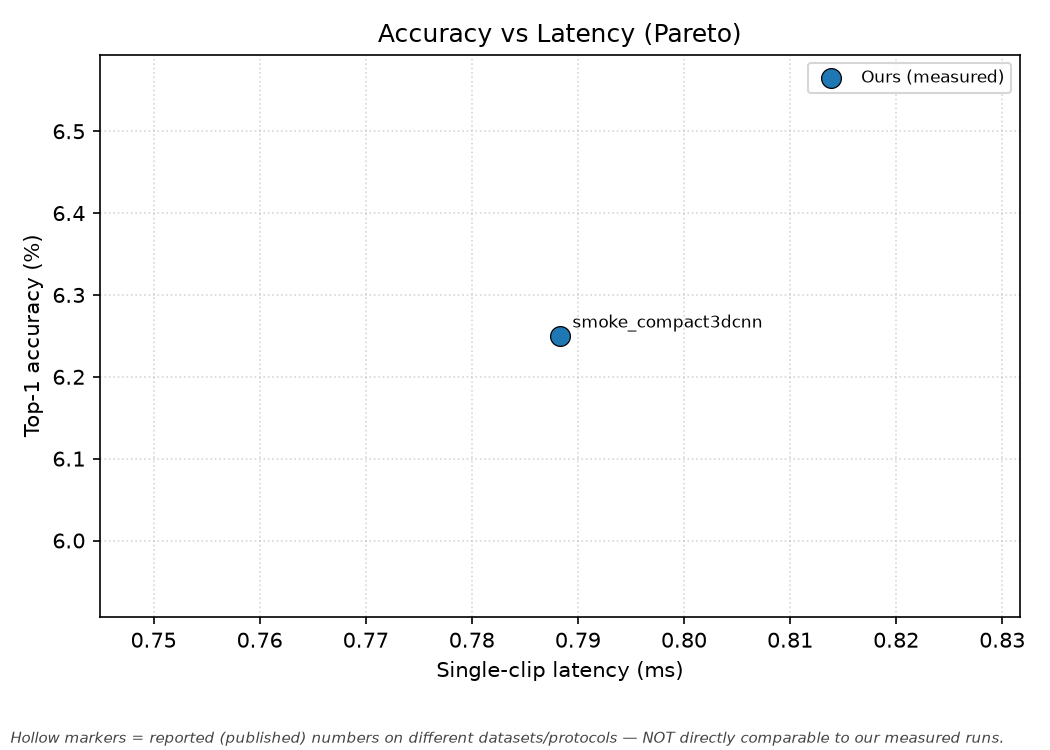
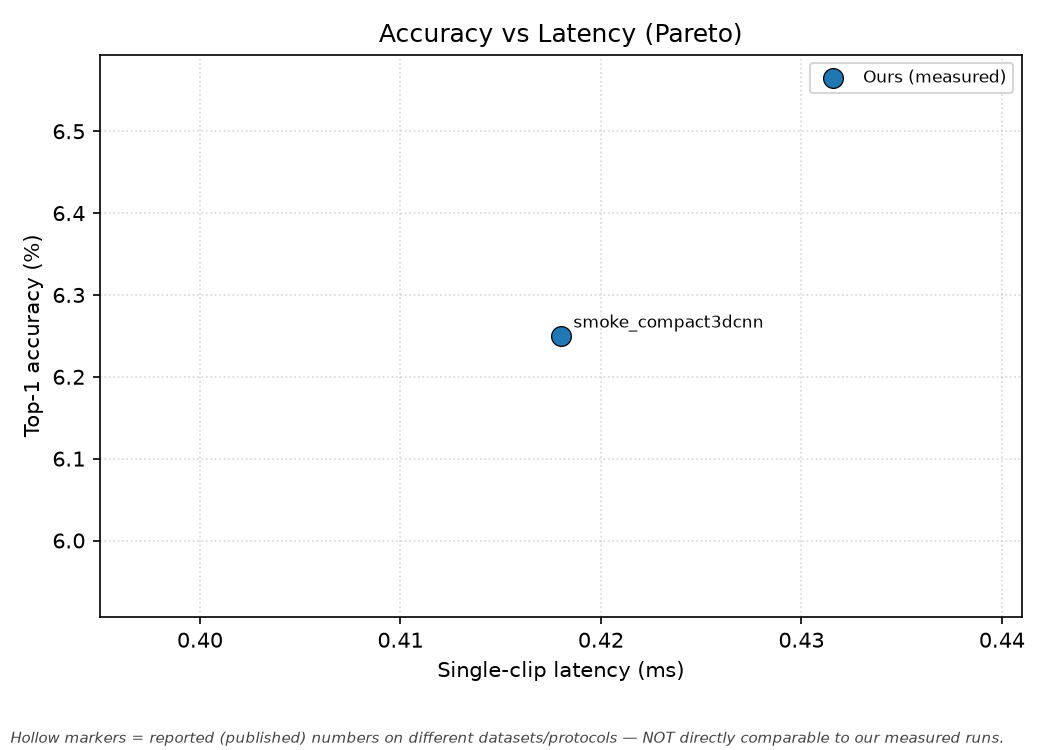
chore: experiment-runner, compress/multimodal entrypoints, env lock, dict-aware eval
- scripts/run_experiments.sh: documents the full §6 experiment matrix (PEFT
  sweep, distill ablation, compression, clip/res sensitivity, modality ablation)
- scripts/compress_student.py: FP32/FP16/INT8-PTQ/INT8-QAT + pruning matrix with
  honest report_compression rows (M6 entrypoint)
- scripts/train_multimodal.py: NVGesture dict-batch training + evaluate_multimodal
  (M7 entrypoint) with per-modality ablation via --set
- src/eval/metrics.evaluate now handles dict (multimodal) batches so the shared
  engine's per-epoch eval works for the fusion model
- requirements.lock.txt: exact measured versions (torch 2.6.0+cu124, CUDA 12.4)
- README: run-experiments, webcam-demo, env-pinning, results-teaser sections

Verified on RTX 4060: all 3 fusion modes train+eval; 22 tests pass; make smoke
and make repro-main both succeed.

diff --git a/scripts/compress_student.py b/scripts/compress_student.py
@@ -1,0 +1,131 @@
+"""Compress a trained student and emit the FP32/FP16/INT8/pruned comparison (M6).
+
+Loads a student checkpoint, then for each requested mode produces the compressed
+model, runs `report_compression` (honest size + accuracy delta), and writes one
+results row per (mode, prune_ratio). QAT additionally fine-tunes the fake-quant
+model for a few epochs before converting. Accuracy drops are reported, never
+hidden (BRIEF §6.3, §11).
+
+Usage:
+    python scripts/compress_student.py --config configs/distill_student.yaml \
+        --ckpt checkpoints/distill/jester_student_logit_kd.pt \
+        --modes fp32 fp16 int8_ptq int8_qat --prune-ratios 0.0 0.3 0.5
+"""
+
+from __future__ import annotations
+
+import argparse
+import copy
+import sys
+from pathlib import Path
+
+sys.path.insert(0, str(Path(__file__).resolve().parents[1]))
+
+import torch
+
+import src.data  # noqa: F401
+import src.models  # noqa: F401
+from src.bench.efficiency_bench import measure_disk_size
+from src.compress import (
+    convert_qat, prepare_qat, prune_report, quantize_fp16,
+    quantize_int8_ptq, remove_pruning_reparam, report_compression,
+    structured_channel_prune,
+)
+from src.data.loaders import build_dataloaders
+from src.train.engine import train_model
+from src.utils import (
+    ResultsWriter, build, get_logger, load_config, seed_everything,
+)
+from src.utils.checkpoint import load_checkpoint
+
+log = get_logger("scripts.compress_student")
+
+
+def parse_args():
+    p = argparse.ArgumentParser(description=__doc__)
+    p.add_argument("--config", required=True)
+    p.add_argument("--ckpt", required=True)
+    p.add_argument("--modes", nargs="+",
+                   default=["fp32", "fp16", "int8_ptq", "int8_qat"])
+    p.add_argument("--prune-ratios", nargs="*", type=float, default=[0.0])
+    p.add_argument("--qat-epochs", type=int, default=2)
+    p.add_argument("--set", nargs="*", default=[], dest="overrides")
+    return p.parse_args()
+
+
+def _load_student(cfg, ckpt, device):
+    model = build("model", cfg["model"].get("name", "streaming_student"),
+                  num_classes=cfg["data"]["num_classes"], **cfg["model"].get("kwargs", {}))
+    payload = load_checkpoint(ckpt, model, map_location="cpu")
+    model.to(device).eval()
+    log.info("Loaded student from %s (epoch %s)", ckpt, payload.get("epoch"))
+    return model
+
+
+def main():
+    args = parse_args()
+    cfg = load_config(args.config, overrides=args.overrides)
+    seed = seed_everything(cfg.get("seed", 42), cfg.get("deterministic", True))
+    device = torch.device(cfg.get("device", "cuda") if torch.cuda.is_available() else "cpu")
+
+    loaders = build_dataloaders(cfg)
+    eval_loader = loaders.get("test") or loaders.get("val")
+    calib_loader = loaders.get("train") or eval_loader
+    if eval_loader is None:
+        log.error("No eval loader; cannot report accuracy. Prepare data first.")
+        return
+
+    base = _load_student(cfg, args.ckpt, device)
+    writer = ResultsWriter(root=cfg["output"]["root"], seed=seed)
+    group = "compress"
+
+    for ratio in args.prune_ratios:
+        # Apply structured pruning first (ratio=0 => no-op), then quantize.
+        pruned = copy.deepcopy(base)
+        if ratio > 0:
+            structured_channel_prune(pruned, ratio)
+            remove_pruning_reparam(pruned)
+        prune_info = prune_report(base, pruned) if ratio > 0 else {"conv_sparsity_after": 0.0}
+
+        for mode in args.modes:
+            tag = f"{mode}_prune{ratio}"
+            log.info("=== compressing: %s ===", tag)
+            if mode == "fp32":
+                comp = copy.deepcopy(pruned)
+                setattr(comp, "_quantization_note", "fp32 baseline (no quantization).")
+            elif mode == "fp16":
+                comp = quantize_fp16(pruned)
+            elif mode == "int8_ptq":
+                comp = quantize_int8_ptq(pruned, calib_loader, device)
+            elif mode == "int8_qat":
+                qat_model = prepare_qat(pruned).to(device)
+                # Short QAT fine-tune with the standard supervised engine.
+                qcfg = copy.deepcopy(cfg)
+                qcfg["train"]["epochs"] = args.qat_epochs
+                train_model(qat_model, loaders, qcfg, device=device)
+                comp = convert_qat(qat_model)
+            else:
+                log.warning("Unknown mode %s; skipping.", mode)
+                continue
+
+            rep = report_compression(pruned, comp, eval_loader, device, tag)
+            result = {
+                "compress": {"mode": mode, "prune_ratio": ratio, **rep, **prune_info},
+                "bench": {  # minimal bench block so viz can pick up size/accuracy
+                    "params": {"total": sum(p.numel() for p in base.parameters()),
+                               "trainable": 0, "frozen": 0, "trainable_pct": 0.0},
+                    "disk_size_mb": rep["size_mb_after"],
+                    "flops": {"macs_g": None, "flops_g": None, "flops_backend": "n/a"},
+                    "accuracy": {"top1": rep.get("top1_after"), "top5": None},
+                    "single_clip_fps": None, "single_clip_latency_ms": None,
+                    "peak_infer_vram_mb": None,
+                },
+                "config_path": args.config,
+            }
+            writer.write(result, group=group, run_name=tag, seed=seed)
+
+    log.info("DONE compression matrix -> experiments/%s/", group)
+
+
+if __name__ == "__main__":
+    main()

diff --git a/scripts/train_multimodal.py b/scripts/train_multimodal.py
@@ -1,0 +1,118 @@
+"""Train the multimodal fusion model on NVGesture (M7) with modality ablation.
+
+The multimodal loader yields ``(modality_dict, label)`` batches, so this uses the
+dict-aware ``multimodal_loss_fn`` and ``evaluate_multimodal``. The modality set is
+controlled by ``data.modalities`` + ``model.kwargs.modalities`` (RGB / RGB+D /
+RGB+D+IR), giving the §6.5 ablation.
+
+Usage:
+    python scripts/train_multimodal.py --config configs/multimodal_nvgesture.yaml \
+        --set data.modalities='[rgb,depth]' model.kwargs.modalities='[rgb,depth]' \
+              output.run_name=nvgesture_rgbd
+"""
+
+from __future__ import annotations
+
+import argparse
+import sys
+from pathlib import Path
+
+sys.path.insert(0, str(Path(__file__).resolve().parents[1]))
+
+import torch
+
+import src.data  # noqa: F401
+import src.models  # noqa: F401
+from src.data.loaders import build_dataloaders
+from src.eval.metrics import evaluate  # noqa: F401 (kept for parity/imports)
+from src.train.engine import _resolve_amp, train_model
+from src.train.multimodal import evaluate_multimodal, multimodal_loss_fn
+from src.utils import (
+    ResultsWriter, build, get_logger, load_config, save_config,
+    seed_everything, setup_file_logging,
+)
+from src.utils.checkpoint import save_checkpoint
+from src.utils.env import count_parameters
+
+log = get_logger("scripts.train_multimodal")
+
+
+def parse_args():
+    p = argparse.ArgumentParser(description=__doc__)
+    p.add_argument("--config", required=True)
+    p.add_argument("--set", nargs="*", default=[], dest="overrides")
+    return p.parse_args()
+
+
+def main():
+    args = parse_args()
+    cfg = load_config(args.config, overrides=args.overrides)
+    seed = seed_everything(cfg.get("seed", 42), cfg.get("deterministic", True))
+
+    run_name = cfg["output"]["run_name"]
+    run_dir = Path(cfg["output"]["root"]) / cfg["output"]["group"] / run_name
+    run_dir.mkdir(parents=True, exist_ok=True)
+    setup_file_logging(run_dir)
+    save_config(cfg, run_dir / "config.resolved.yaml")
+
+    device = torch.device(cfg.get("device", "cuda") if torch.cuda.is_available() else "cpu")
+    loaders = build_dataloaders(cfg)
+
+    model = build("model", cfg["model"].get("name", "multimodal_fusion"),
+                  num_classes=cfg["data"]["num_classes"], **cfg["model"].get("kwargs", {}))
+    model.to(device)
+    params = count_parameters(model)
+    log.info("MultiModalFusion modalities=%s params=%d",
+             cfg["model"]["kwargs"].get("modalities"), params["total"])
+
+    # Dict-aware training. Per-epoch eval uses evaluate_multimodal via callback.
+    amp_enabled, amp_dtype = _resolve_amp(cfg, device)
+    eval_loader = loaders.get("test") or loaders.get("val")
+
+    def on_epoch_end(epoch, summary):
+        if eval_loader is not None:
+            m = evaluate_multimodal(model, eval_loader, device,
+                                    amp_enabled=amp_enabled, amp_dtype=amp_dtype)
+            log.info("epoch %d multimodal val top1=%.3f top5=%.3f",
+                     epoch, m["top1"], m["top5"])
+            summary["val_top1"] = m["top1"]
+            summary["val_top5"] = m["top5"]
+
+    summary = train_model(model, loaders, cfg, device=device,
+                          loss_fn=multimodal_loss_fn(cfg), on_epoch_end=on_epoch_end)
+
+    ckpt_dir = Path(cfg["output"].get("checkpoint_dir", "checkpoints")) / cfg["output"]["group"]
+    save_checkpoint(ckpt_dir / f"{run_name}.pt", model, epoch=cfg["train"]["epochs"],
+                    best_metric=summary.get("best_val_acc"), config=cfg, seed=seed)
+
+    # Final measured accuracy (dict-aware) + params/disk. FLOPs/latency for the
+    # dict input are model-specific; we record the accuracy + size row here and
+    # note that per-modality FLOPs can be measured with efficiency_bench on a
+    # single-modality tensor if needed.
+    final = evaluate_multimodal(model, eval_loader, device,
+                                amp_enabled=amp_enabled, amp_dtype=amp_dtype,
+                                return_confusion=True) if eval_loader else {"top1": None, "top5": None}
+    from src.bench.efficiency_bench import measure_disk_size
+    result = {
+        "train": summary,
+        "modalities": cfg["model"]["kwargs"].get("modalities"),
+        "fusion": cfg["model"]["kwargs"].get("fusion"),
+        "bench": {
+            "params": {"total": params["total"], "trainable": params["trainable"],
+                       "frozen": params["frozen"],
+                       "trainable_pct": round(100.0 * params["trainable"] / max(params["total"], 1), 3)},
+            "disk_size_mb": measure_disk_size(model),
+            "flops": {"macs_g": None, "flops_g": None, "flops_backend": "n/a (multimodal dict)"},
+            "accuracy": {"top1": final.get("top1"), "top5": final.get("top5")},
+            "single_clip_fps": None, "single_clip_latency_ms": None, "peak_infer_vram_mb": None,
+        },
+        "per_class_acc": final.get("per_class_acc"),
+        "config_path": args.config,
+    }
+    ResultsWriter(root=cfg["output"]["root"], seed=seed).write(
+        result, group=cfg["output"]["group"], run_name=run_name, seed=seed)
+    log.info("DONE multimodal run: %s (top1=%s)", run_name, final.get("top1"))
+
+
+if __name__ == "__main__":
+    main()

diff --git a/paper/tables.tex b/paper/tables.tex
@@ -4,7 +4,7 @@
 \hline
 Method & Source & Dataset & Params(M) & FLOPs(G) & Top-1(\%) & FPS & Latency(ms) & PeakVRAM(MB) & Disk(MB) \\
 \hline
-smoke\_compact3dcnn & ours & TODO & 0.00 & 0.02 & 6.25 & 1268.5 & 0.79 & 67.5 & 0.021 \\
+smoke\_compact3dcnn & ours & TODO & 0.00 & 0.02 & 6.25 & 2392.3 & 0.42 & 67.6 & 0.021 \\
 MoViNet-A0 & reported (Kondratyuk et al., CVPR 2021) & Kinetics-600 & 3.10 & 2.71 & 71.50 & TODO & TODO & TODO & TODO \\
 MoViNet-A1 & reported (Kondratyuk et al., CVPR 2021) & Kinetics-600 & 4.60 & 6.02 & 76.00 & TODO & TODO & TODO & TODO \\
 ConvMixFormer & reported (Garg et al., WACV 2025) & NVGesture (RGB) & 13.57 & TODO & 76.04 & TODO & TODO & TODO & TODO \\

diff --git a/src/eval/metrics.py b/src/eval/metrics.py
@@ -41,7 +41,12 @@ def evaluate(
 
     for batch in loader:
         x, y = batch
-        x = x.to(device, non_blocking=True)
+        # Support both single-tensor and multimodal dict batches so the same
+        # evaluate works for the fusion model (x = {modality: tensor}).
+        if isinstance(x, dict):
+            x = {k: v.to(device, non_blocking=True) for k, v in x.items()}
+        else:
+            x = x.to(device, non_blocking=True)
         y = y.to(device, non_blocking=True)
         ctx = torch.autocast(device_type=device.type, dtype=amp_dtype, enabled=amp_enabled)
         with ctx:

diff --git a/README.md b/README.md
@@ -82,9 +82,44 @@ warmed up and reported mean ± std. External/reported numbers are always labeled
 as such. **Any number that hasn't been measured is left as `TODO` — never
 filled with a plausible guess.**
 
+## Running the experiments
+
+`scripts/run_experiments.sh` documents the full experiment matrix (BRIEF §6):
+PEFT sweep, distillation ablation, compression (FP32/FP16/INT8-PTQ/QAT/pruning),
+clip-length/resolution sensitivity, and the NVGesture modality ablation. Run
+selectively — the full matrix is many GPU-hours. Individual entrypoints:
+
+```bash
+.venv/Scripts/python scripts/train.py             --config configs/baseline_jester.yaml   # M3
+.venv/Scripts/python scripts/train_peft_teacher.py --config configs/peft_lora.yaml         # M4
+.venv/Scripts/python scripts/distill_student.py    --config configs/distill_student.yaml   # M5
+.venv/Scripts/python scripts/compress_student.py   --config configs/distill_student.yaml --ckpt <student.pt>  # M6
+.venv/Scripts/python scripts/train_multimodal.py   --config configs/multimodal_nvgesture.yaml               # M7
+```
+
+## Real-time webcam demo
+
+```bash
+.venv/Scripts/python src/demo/webcam_demo.py --ckpt checkpoints/distill/<student>.pt \
+    --labels data/jester/jester-v1-labels.csv --frame-size 172 [--show-hand]
+```
+
+Drives the streaming student's constant-memory `forward_step` API and overlays
+measured FPS + per-frame latency. Runs untrained (clearly labelled) if no
+checkpoint is given, so the pipeline can be demoed before training.
+
+## Environment pinning
+
+`requirements.txt` has loose ranges; `requirements.lock.txt` pins the exact
+versions this study was measured on (torch 2.6.0+cu124, CUDA 12.4, Python 3.12).
+
 ## Results teaser
 
 Populated by `make repro-main` from committed runs. Headline figures:
 `paper/figures/pareto_accuracy_vs_flops.png` and
-`paper/figures/pareto_accuracy_vs_latency.png`. _(Real Jester/NVGesture rows are
-filled in as milestones M3–M7 complete; see EXPERIMENTS.md.)_
+`paper/figures/pareto_accuracy_vs_latency.png`; the comparison table is
+`paper/tables.md` (LaTeX in `paper/tables.tex`), with our measured runs alongside
+reported baselines (MoViNet / ConvMixFormer / GestFormer / DSTSA-GCN) clearly
+marked as reported-not-rerun. _(Real Jester/NVGesture rows fill in as the runs in
+`scripts/run_experiments.sh` complete on prepared data; see EXPERIMENTS.md. Any
+unmeasured cell shows `TODO` — never a fabricated number.)_

diff --git a/paper/tables.md b/paper/tables.md
@@ -1,6 +1,6 @@
 | Method | Source | Dataset | Params(M) | FLOPs(G) | Top-1(%) | FPS | Latency(ms) | PeakVRAM(MB) | Disk(MB) |
 | --- | --- | --- | --- | --- | --- | --- | --- | --- | --- |
-| smoke_compact3dcnn | ours | TODO | 0.00 | 0.02 | 6.25 | 1268.5 | 0.79 | 67.5 | 0.021 |
+| smoke_compact3dcnn | ours | TODO | 0.00 | 0.02 | 6.25 | 2392.3 | 0.42 | 67.6 | 0.021 |
 | MoViNet-A0 | reported (Kondratyuk et al., CVPR 2021) | Kinetics-600 | 3.10 | 2.71 | 71.50 | TODO | TODO | TODO | TODO |
 | MoViNet-A1 | reported (Kondratyuk et al., CVPR 2021) | Kinetics-600 | 4.60 | 6.02 | 76.00 | TODO | TODO | TODO | TODO |
 | ConvMixFormer | reported (Garg et al., WACV 2025) | NVGesture (RGB) | 13.57 | TODO | 76.04 | TODO | TODO | TODO | TODO |
